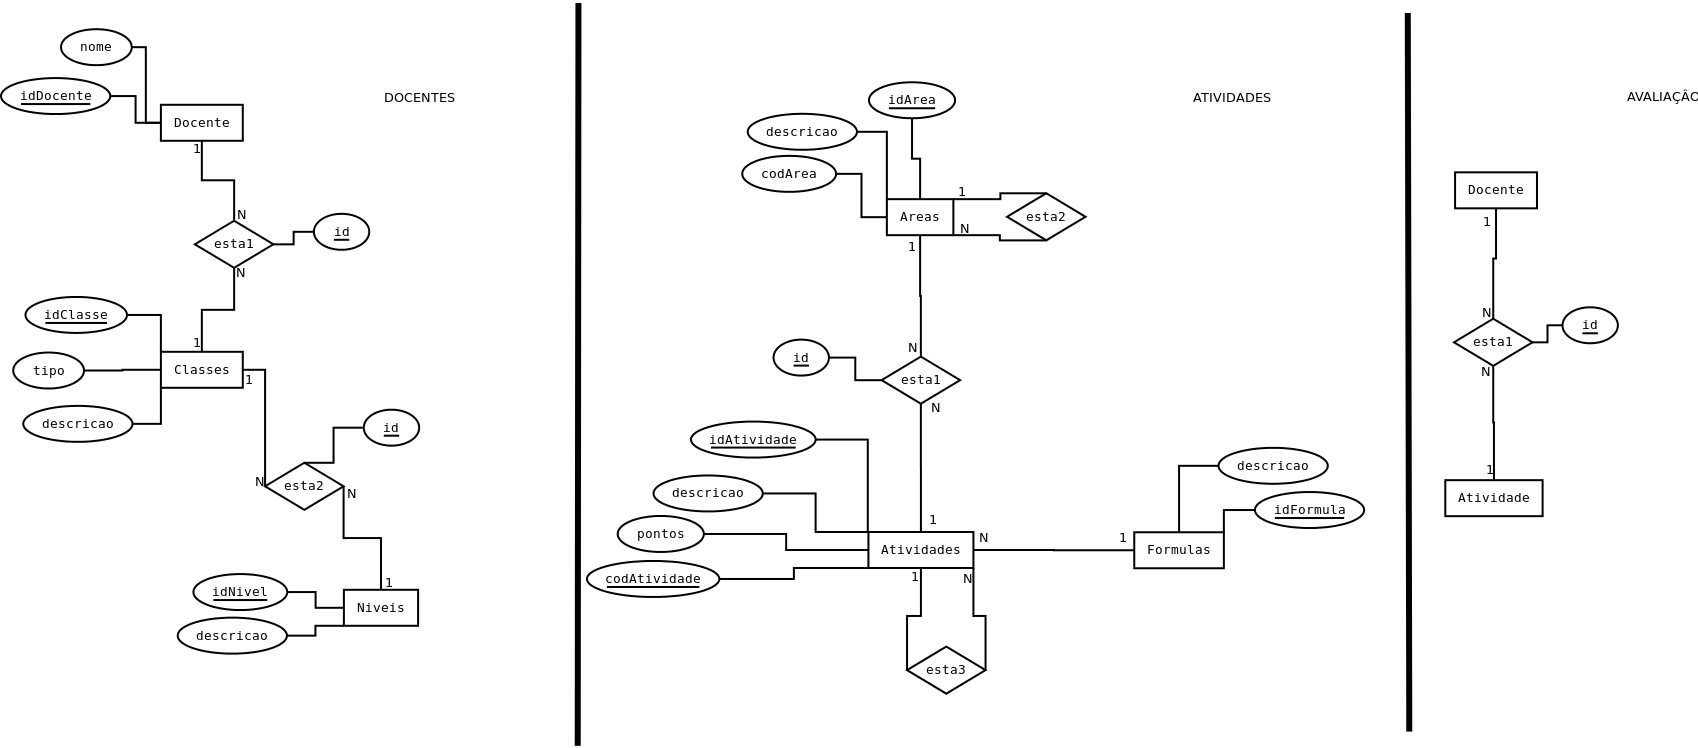
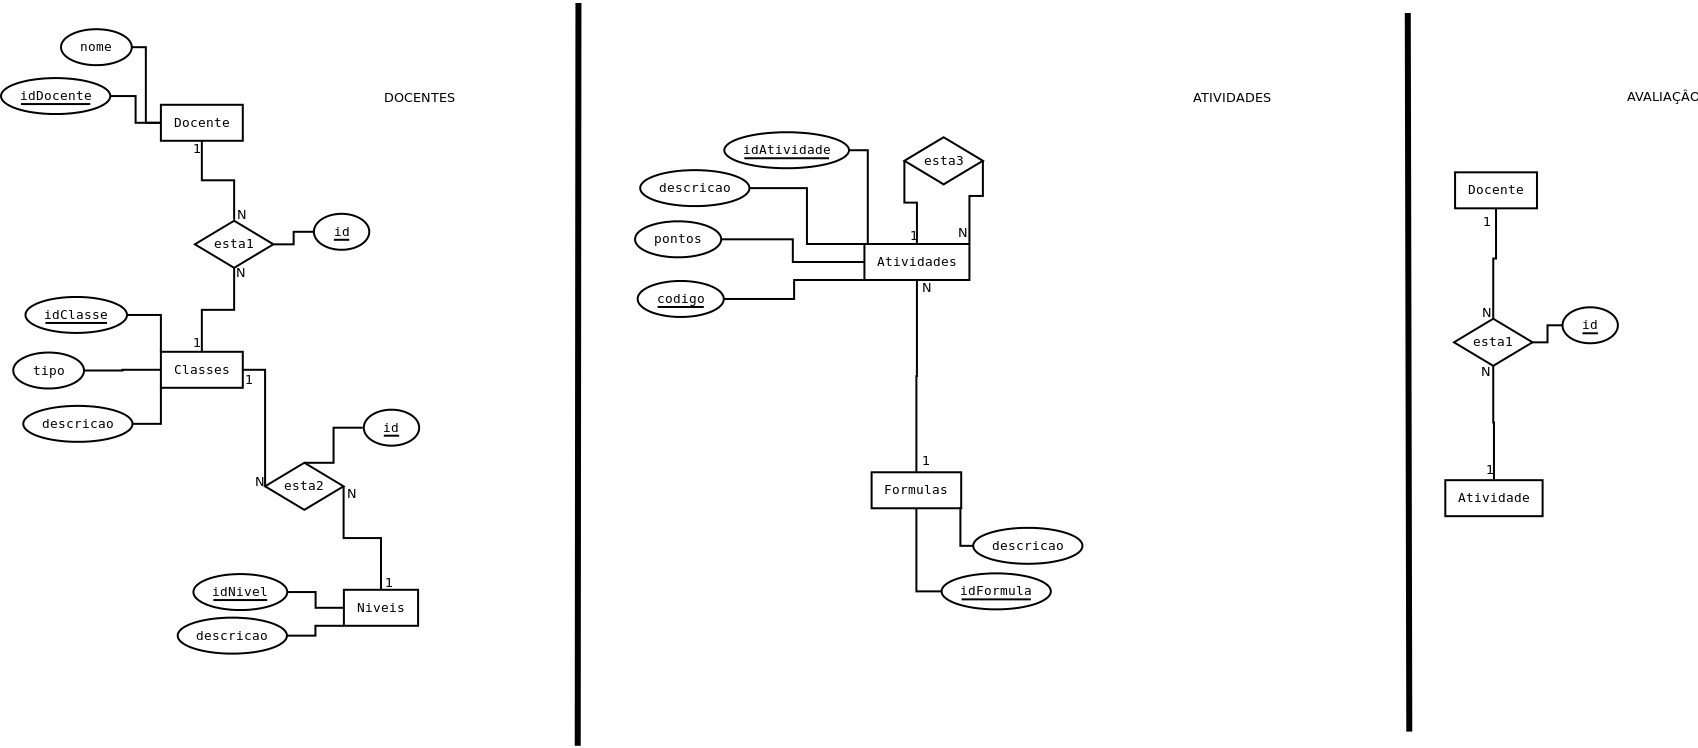
Commit de atualização do modelo MER e de dominio

diff --git a/REU/src/dtoAtividades/Atividade.java b/REU/src/dtoAtividades/Atividade.java
@@ -12,7 +12,6 @@ package dtoAtividades;
  */
 import java.io.Serializable;
 import java.util.List;
-import javax.persistence.Basic;
 import javax.persistence.Column;
 import javax.persistence.Entity;
 import javax.persistence.FetchType;
@@ -39,12 +38,14 @@ public class Atividade implements Serializable{
     public Atividade(){}
     
     @Id
-    @Basic(optional = false) @Column(name = "idAtividade")
+    @Column(name = "idAtividade")
     @GeneratedValue(strategy=GenerationType.AUTO)   
     private int idAtividade;
     
-    private String descricao;
+    @Id
     private String codAtividade;
+    
+    private String descricao;
     private Double pontos;
     
     @ManyToOne

diff --git a/REU/src/dtoAtividades/Formula.java b/REU/src/dtoAtividades/Formula.java
@@ -7,14 +7,11 @@
 package dtoAtividades;
 
 import java.io.Serializable;
-import java.util.List;
-import javax.persistence.Basic;
 import javax.persistence.Column;
 import javax.persistence.Entity;
 import javax.persistence.GeneratedValue;
 import javax.persistence.GenerationType;
 import javax.persistence.Id;
-import javax.persistence.OneToMany;
 import javax.persistence.Table;
 
 /**
@@ -30,7 +27,7 @@ public class Formula implements Serializable{
     public Formula(){}
     
     @Id
-    @Basic(optional = false) @Column(name = "idFormula")
+    @Column(name = "idFormula")
     @GeneratedValue(strategy=GenerationType.AUTO)
     private int idFormula;
     

diff --git a/REU/src/dtoAtividades/Area.java b/REU/src/dtoAtividades/Area.java
@@ -2,7 +2,6 @@ package dtoAtividades;
 
 import java.io.Serializable;
 import java.util.List;
-import javax.persistence.Basic;
 import javax.persistence.Column;
 import javax.persistence.Entity;
 import javax.persistence.FetchType;
@@ -26,12 +25,14 @@ public class Area implements Serializable{
     public Area(){}
     
     @Id
-    @Basic(optional = false) @Column(name = "idArea")
+    @Column(name = "idArea")
     @GeneratedValue(strategy=GenerationType.AUTO)  
     private int idArea;
     
-    private String descricao;
+    @Id
     private String codArea;
+    
+    private String descricao;
     
     @ManyToOne
     @JoinColumn(name="idArea")

diff --git a/REU/src/persist/HibernateFactory.java b/REU/src/persist/HibernateFactory.java
@@ -7,6 +7,7 @@ import dtoDocentes.Docente;
 import dtoAtividades.Formula;
 import dtoDocentes.Classe;
 import dtoDocentes.Nivel;
+import dtoDocentes.Usuario;
 import org.hibernate.Session;
 import org.hibernate.SessionFactory;
 import org.hibernate.cfg.AnnotationConfiguration;
@@ -25,6 +26,7 @@ public class HibernateFactory {
         cfg.addAnnotatedClass(Docente.class);
         cfg.addAnnotatedClass(Classe.class);
         cfg.addAnnotatedClass(Nivel.class);
+        cfg.addAnnotatedClass(Usuario.class);
         
         factory = cfg.buildSessionFactory();
     }
